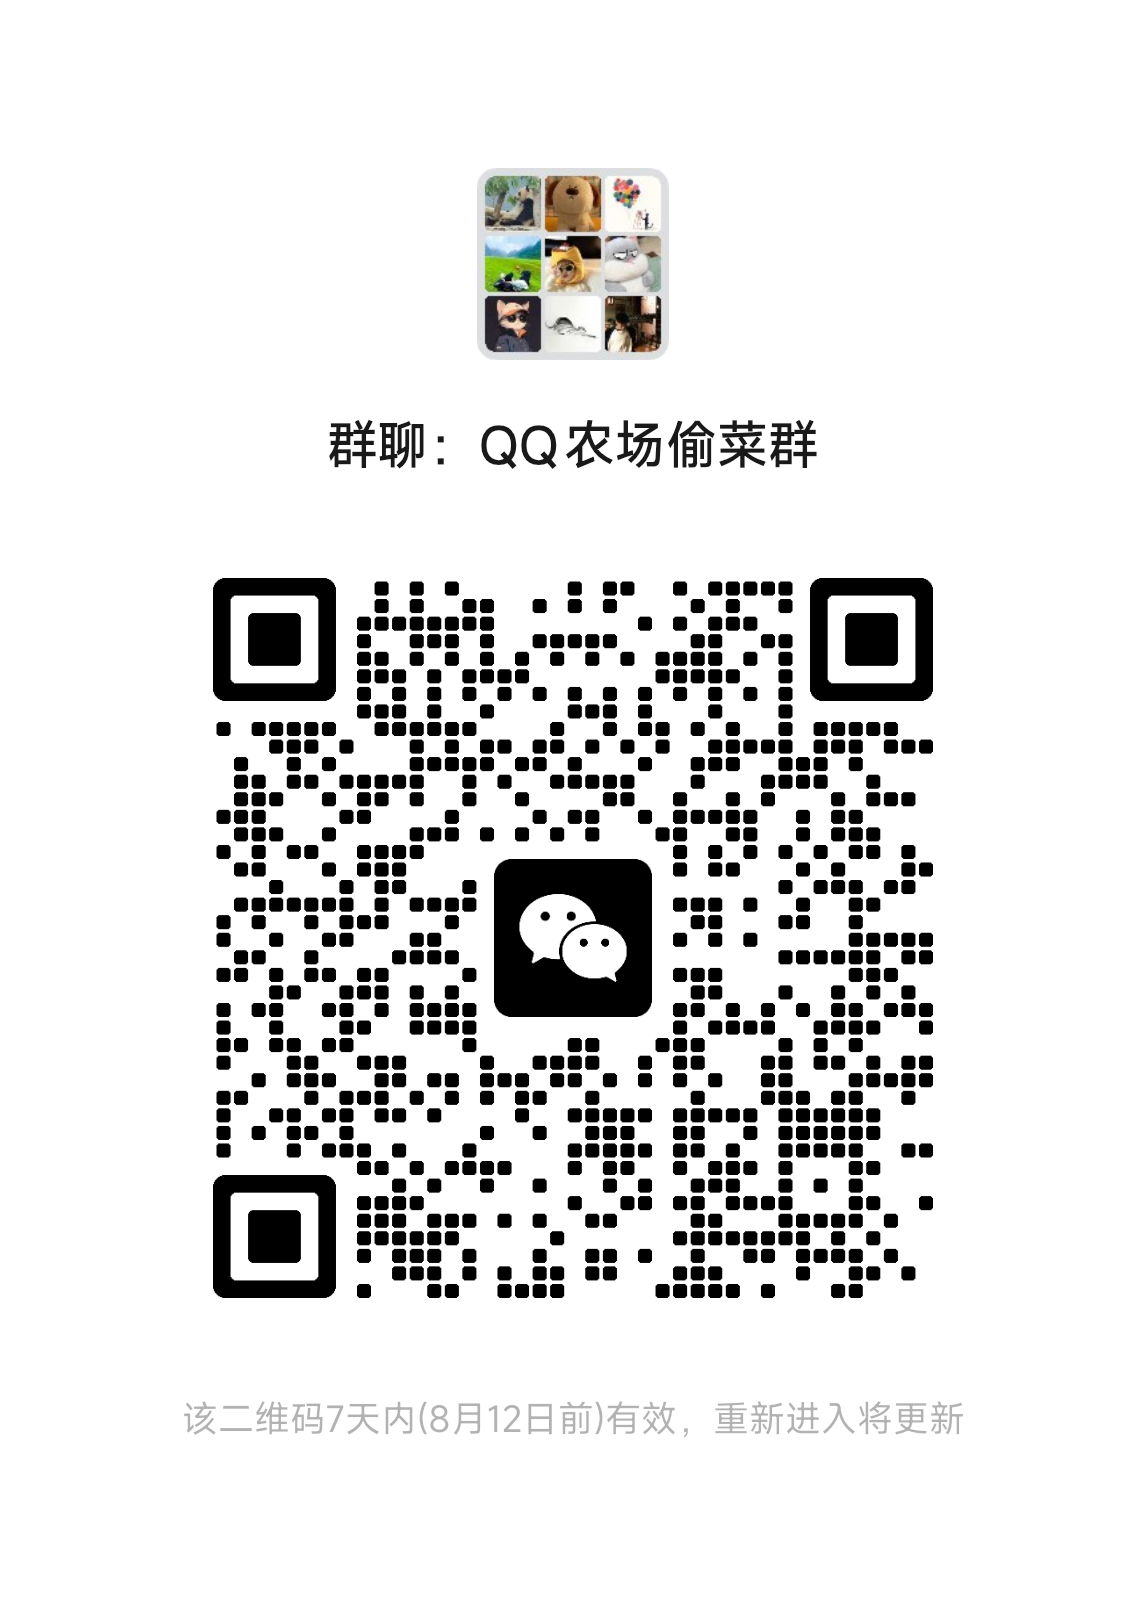
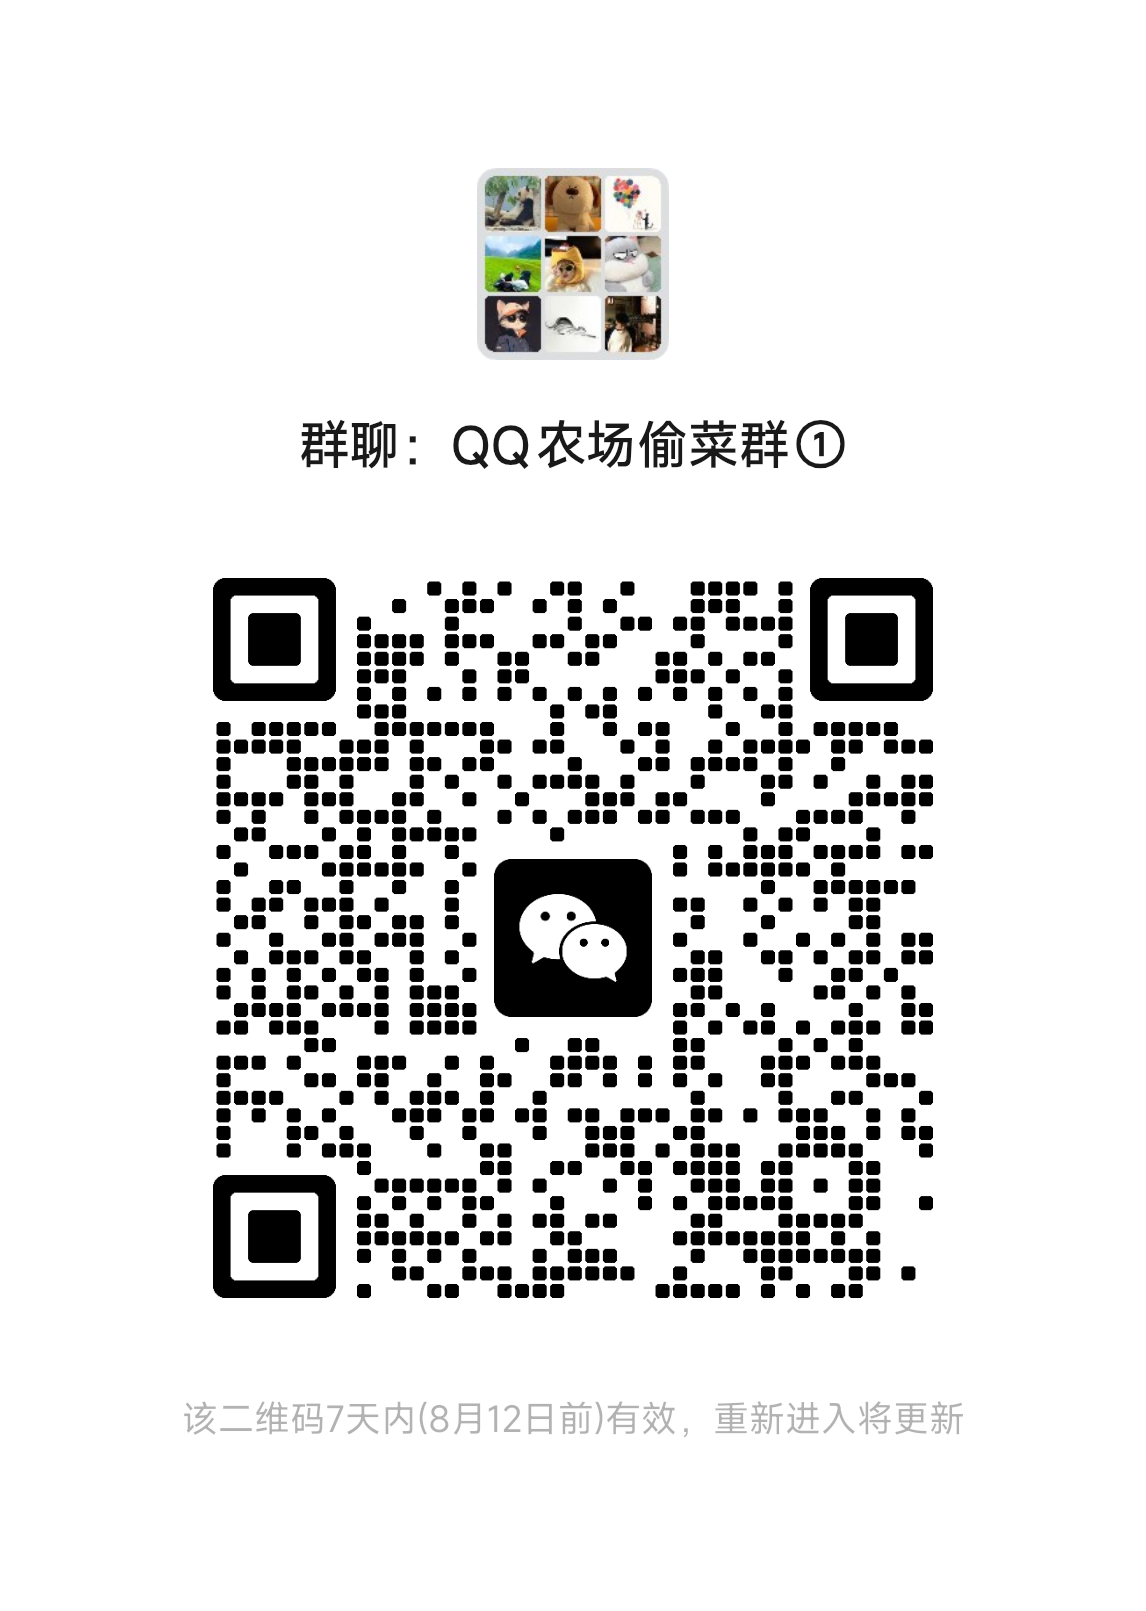
docs(others): 更新QQ经典农场群页面，添加新群信息
添加了群②二维码及说明，群①已满200人提示，并优化了图片排版和样式。

diff --git a/docs/others/2.md b/docs/others/2.md
@@ -1,5 +1,5 @@
 --- 
-description: 最近在玩QQ经典农场,建了个群,可以加好友抢菜啦!
+description: 最近在玩QQ经典农场, 建了个群, 可以加好友抢菜啦!
 tag: 个人作品
 title: QQ经典农场群
 sidebar: false
@@ -9,12 +9,21 @@ date: 2026-05-14 17:00:00
 
 # QQ经典农场群
 
-<p>最近在玩QQ经典农场,建了个群,可以加好友抢菜啦!</p>
+<p>最近在玩QQ经典农场, 建了个群, 可以加好友抢菜啦!</p>
 
 <div class="box">
     <div class="box-item">
-        <img  src='../public/qqnongchang.png'/>
-        <p class='box-text'>QQ经典农场偷菜群</p>
+    <div class='img-box'>
+        <div  class='img-box-item'>
+            <img  src='../public/qqnongchang.png'/>
+            <p class='box-text'>QQ经典农场偷菜群①</p>
+        </div>
+        <div class='img-box-item'>
+            <img  src='../public/qqnongchang2.png'/>
+            <p class='box-text'>QQ经典农场偷菜群②</p>
+        </div>
+    </div>
+        <b style='color:red'>群①人数已满200，不能扫码加群，但可以群内好友邀请进入。新开群②，暂时可以扫码加群。</b>
         <p>复制以下链接，粘贴在输入框，发送给自己，点击链接，也可以打开QQ农村偷菜小程序👇</p>
         <p class='box-text'>#小程序://QQ经典农场/LeUm1lPWlLQq7Xh</p>
     </div>
@@ -35,11 +44,23 @@ date: 2026-05-14 17:00:00
     }
     .box-text{
         font-size: 24px;
-        color:orange
+        color:orange;
+        text-align:center;
     }
     .tips{
         text-align: center;
         font-size: 20px;
+    }
+
+    .img-box{
+        display:flex;
+        gap:20px;
+        flex-wrap:wrap;
+        justify-content: center;
+    }
+
+    .img-box-item{
+        width:48%;
     }
 
 </style>
